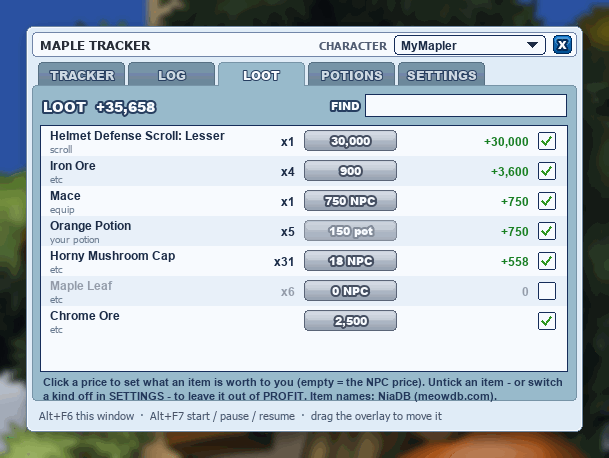
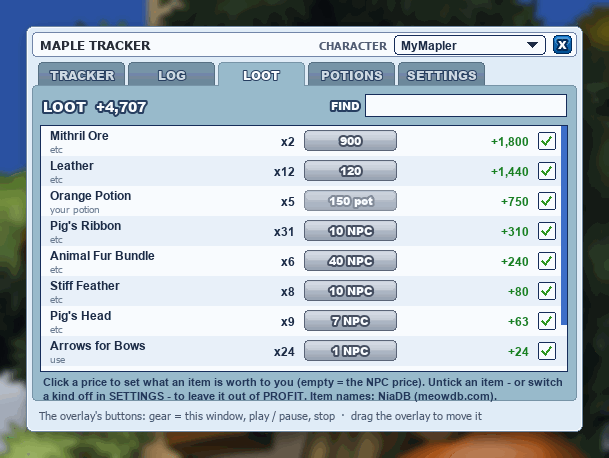
README: fresh screenshots with the overlay buttons, loot grid, background and MOBS window

diff --git a/README.md b/README.md
@@ -2,7 +2,7 @@
 
 EXP, meso, loot, potion and profit tracker overlay for MapleStory Classic.
 
-<p align="center"><img src="docs/overlay.png" alt="The overlay over the game: map, EXP per hour with a level gauge, mesos, potions used, loot and profit"></p>
+<p align="center"><img src="docs/overlay.png" alt="The overlay over the game, plain and with its dark background: map and session time, play / pause / stop buttons, EXP per hour (and level % per hour) with a level gauge, mesos, potions used, the loot grid and profit"></p>
 
 **Start:** double-click `Start MapleTracker.bat`. It closes by itself when MapleStory closes.
 It only takes screenshots and is read-only: no memory reading, nothing injected, no input sent to the game, and no keyboard hooks or hotkeys.
@@ -73,6 +73,8 @@ It only takes screenshots and is read-only: no memory reading, nothing injected,
 Type in the **MAP** box and a list of matching maps drops down (towns left out, your recent maps first): Up/Down and Enter, or click. Anything you type still works as a map name.
 
 **MOBS** next to the map box shows the map's monsters and what they drop, from NiaDB's community **Drops (MS Classic)** lists. Each drop shows its player votes (more = more players saw it drop in Classic), what it's worth to you, and a box to leave it out of PROFIT. Quest items are left out.
+
+<p align="center"><img src="docs/mobs.png" alt="The MOBS window: a map's monsters and what each drops in MS Classic, with player votes, prices and PROFIT checkboxes"></p>
 
 ## NiaDB data
 
